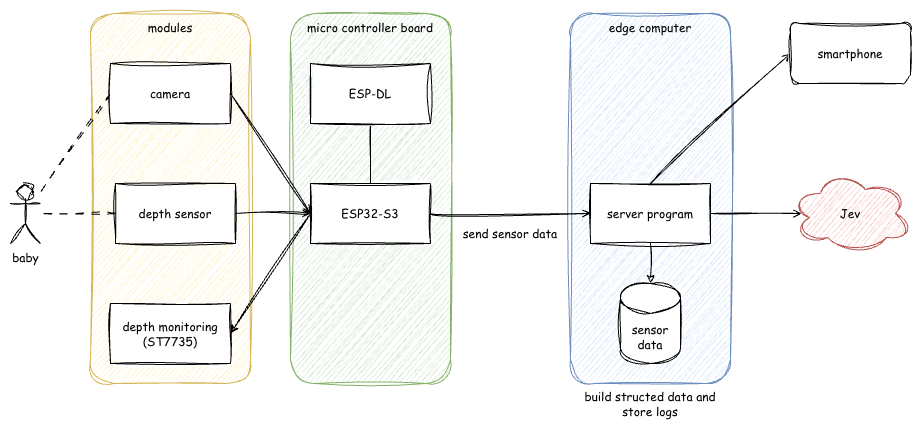
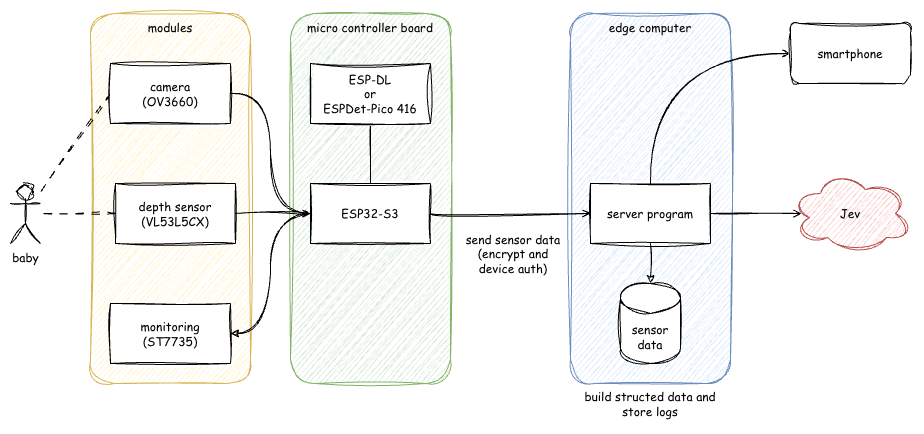
Update setup and specifications for edge application and depth sensor monitoring
- Revised the setup documentation to clarify the development procedures and removed outdated product connection steps.
- Updated specifications to reflect changes in the edge application's registration and management processes.
- Enhanced the depth sensor monitoring by changing the representation of invalid cells to a black background with a red '×'.
- Adjusted the depth map rendering code to ensure the correct color representation for invalid cells.
- Modified tests to validate the new rendering behavior for invalid cells in the depth map.
- Added new documentation for face detection model selection and depth sensor monitoring improvements.

close #24

diff --git a/tests/test_depth_map.c b/tests/test_depth_map.c
@@ -42,8 +42,8 @@ static void cross(int cell)
         for (int x = 0; x < 16; ++x)
         {
             const uint8_t *p = pixel((cell % 8) * 16 + x, (cell / 8) * 16 + y);
-            assert(p[0] == (x == y || x + y == 15 ? 0xfc : 0));
-            assert(p[1] == 0 && p[2] == 0);
+            assert(p[0] == 0 && p[1] == 0);
+            assert(p[2] == (x == y || x + y == 15 ? 0xfc : 0));
         }
 }
 

diff --git a/main/depth_map.c b/main/depth_map.c
@@ -104,7 +104,7 @@ void depth_map_render_strip(const depth_map_t *map, int64_t now_us, bool mirror_
                     pixel[0] = pixel[1] = pixel[2] = level << 2;
                 }
                 else if (x % 16 == y % 16 || x % 16 + y % 16 == 15)
-                    pixel[0] = 0xfc;
+                    pixel[2] = 0xfc; // Red follows the panel's BGR order.
             }
         }
 }

diff --git a/docs/plans/completed/2026-11-06-issue-24-depth-monitor.md b/docs/plans/completed/2026-11-06-issue-24-depth-monitor.md
@@ -1,0 +1,66 @@
+# Issue #24 深度センサーモニターの修正
+
+## Status
+
+- Phase: verification
+- Approval: approved
+
+## Goal
+
+無効セルは黒地の赤い `×` で、有効な遠距離セルと区別できるようにする。
+README と現行文書で、現在のコードベースの動作と運用手順を確認できるようにする。
+
+## Scope
+
+- `main/depth_map.c` の無効セルの色と、描画テストの期待値を変更対象とする。
+- README と `docs/current/` の全 5 文書を対象に、現在のコードベースと記述を照合する。無効セルの色は Task 1 の変更後のコードに合わせる。
+
+## Non-goals
+
+- センサー取得、測距値、JSONL、判定入力、管理画面を変更すること。
+- パネルの初期化、色順、配線、表示の更新周期を変更すること。
+- ADR、過去の計画、検証記録を書き換えること。
+
+## Required Behavior
+
+- MUST: 有効セルは現行の 64 階調で表示する。表示範囲は 0〜4000 mm とする。
+- MUST: 0 mm は白、4000 mm は黒とする。
+- MUST: 無効セルは黒地に赤い対角線 2 本で `×` を描く。
+- MUST: 顔検知結果の色、凡例、左右反転、深度の状態表示を維持する。
+- MUST: 現行の動作は、実装、設定例、テストで確認できる内容に合わせて記述する。
+- MUST: 商品向けの要件や設計に未実装の項目がある場合、現在利用できる機能と区別する。
+
+## Tasks
+
+### Task 1: 無効セルの `×` を赤くする
+
+- Objective: 無効セルを黒地の赤い `×` で表示する。
+- Scope: `main/depth_map.c` と `tests/test_depth_map.c` を変更する。無効セルの赤には、既存の `FACE x` と同じ第 3 成分を使う。
+- Acceptance Criteria: 無効セルは対角線だけを赤とし、残りを黒とする。既存の階調、有効性判定、取得状態、左右反転、顔表示を維持する。
+- Verification: `sh tests/run.sh` で無効セルの画素と既存動作を確認する。`idf.py build` でファームウェアをビルドする。実機 TFT で無効セルの背景が黒く、`×` が `FACE x` と同じ赤に見えることを確認する。
+
+### Task 2: 現行文書をコードベースに合わせる
+
+- Objective: 現行の動作と運用手順を、現在のコードベースから説明する。
+- Scope: README と `docs/current/` の `REQUIREMENTS.md`、`SPECIFICATIONS.md`、`DESIGN.md`、`SETUP.md`、`CONNECTION.md` を点検する。表示に加え、観測、管理 API と設定、機器登録、エッジ処理、セットアップを照合する。
+- Acceptance Criteria: 現行の API、既定値、コマンド、運用手順がコードベースと一致する。変更履歴や過去の確認状況を現行の動作説明から整理する。移動済みの計画への参照を解消する。未検証の動作を確認済みと記述しない。
+- Verification: 記述を `main/`、`edge/`、`tools/` の実装、設定例、テストと照合する。変更した相対リンクの参照先と、コマンドのオプションを確認する。
+
+## Open Questions
+
+- なし。
+
+## 検証結果
+
+- Task 1 の `sh tests/run.sh` と ESP-IDF 6.0.3 の `idf.py build` が成功した。
+- Task 2 では README と現行文書 5 件を実装、設定例、テストと照合した。リポジトリ内の参照先と、セットアップ用 CLI のオプションを確認した。
+- 管理画面、エッジ、USB 初期設定、セットアップの自動テストが成功した。仮想 eFuse のテストは ESP-IDF の Python で確認した。
+- ユーザが VS Code で ESP-IDF の環境を再選択した。ESP-IDF 6.0.3 でのビルドと実機への書き込み成功をログで確認した。
+- ユーザから動作確認の報告があった。実機 TFT の発色など、個別の確認項目は報告に含まれていない。
+
+## References
+
+- [Issue #24 深度センサーモニターの修正](https://github.com/tkumata/prone-guard/issues/24)
+- [現行の TFT 表示仕様](../../current/SPECIFICATIONS.md#7-tft-深度マップ)
+- [TFT 描画コード](../../../main/depth_map.c)
+- [TFT 描画テスト](../../../tests/test_depth_map.c)

diff --git a/docs/current/REQUIREMENTS.md b/docs/current/REQUIREMENTS.md
@@ -2,7 +2,8 @@
 
 マイコンは観測を取得・送信し、エッジは保存と Jev による判定を担当する。
 お客様だけでの接続完結とセキュリティの確保を必須要件とする。
-接続の詳細は [接続設計](CONNECTION.md)、実装・検証状態は [実装計画](../plans/active/2026-10-28-issue-15-edge-sensors.md) に従う。
+現行の動作と運用手順は [仕様](SPECIFICATIONS.md) と [環境構築と運用](SETUP.md) に記載する。
+商品向けの要件には、[接続設計](CONNECTION.md) で定める未実装の機能も含む。
 
 ## 1. 目的
 
@@ -33,6 +34,7 @@
 - MUST: 深度と target_status を各 8×8 で取得する。
 - MUST: TFT に深度の 8×8 ゾーンを、1 ゾーン 16×16px、全体 128×128px で表示する。
 - MUST: 0〜4000mm を近いほど明るい 64 階調へ変換し、RGB666 で表示する。
+- MUST: 無効セルを黒地の赤い `×` で表示する。
 - MUST: 下部 32px の 1 行目に 6×16px の文字で深度状態と顔検知結果、2 行目に 8×16px の文字で凡例を表示する。
 - MUST: 顔検知時は緑の `■` と顔矩形の面積を整数の px² で表示し、未検知・カメラ未取得・取得失敗時は赤の `x` を表示する。
 - MUST: 管理画面から TFT の深度マップだけを左右反転できる。
@@ -50,8 +52,6 @@
 - MUST: センサーデータを永続保存しない。
 - MUST: Wi-Fi STA と再接続を維持する。
 - MUST: 起動時と 24 時間ごとに NTP 同期する。
-- MUST: エッジのローカル設定画面で STA とベッド ID を設定できる。
-- MUST: URL とキーはアプリが設定し、お客様に入力やファイル編集を要求しない。
 - MUST: 管理画面を HTTPS と管理者認証で保護する。
 - MUST: 秘密を暗号化 NVS に保存し、取得 API やログへ返さない。
 - MUST: Jev 通信と映像配信を行わない。
@@ -78,6 +78,8 @@
 
 - MUST: 配布パッケージの導入から初回接続、設定変更、機器交換、解除・復旧まで、お客様だけで完結できる。
 - MUST: エッジアプリにセットアップツールを組み込み、認証、入力、設定、接続確認、再開・取消しを画面から実行できる。
+- MUST: エッジのローカル設定画面で STA とベッド ID を設定できる。
+- MUST: URL とキーはアプリが設定し、お客様に入力やファイル編集を要求しない。
 - MUST: ツールの再実行や中断で、既存の鍵・観測・無関係な機器設定を破壊しない。
 - MUST: SDK、ターミナル、eFuse 書込み、証明書生成、OS の CA 登録、固定 IP、秘密ファイル編集をお客様へ要求しない。
 - MUST: 初期登録は USB、機器の物理操作、機器固有コードで認証し、Security 2 で暗号化する。
@@ -111,7 +113,7 @@
 | カメラ・深度の観測時刻差 | 1 秒以下 |
 | Jev confidence | 0.9 未満は判定不能 |
 
-上記の品質値と confidence は、実測前の初期設計値である。
+上記の品質値と confidence は、エッジが使用する判定条件である。
 confidence 0.9 は識別精度 90% を保証しない。
 
 ## 7. 受け入れ条件
@@ -134,7 +136,7 @@ confidence 0.9 は識別精度 90% を保証しない。
 - 実施した自動検証と未実施の実機検証を分けて記録する。
 - 精度評価は実装側が担当し、未測定の値を合格扱いしない。
 - [接続設計の受入条件](CONNECTION.md#7-保護する範囲と受入条件)を満たし、お客様の単独操作で接続と復旧を完了できる。
-- 従来の試作の HTTPS・USB テストだけで、商品向けの接続とセキュリティを確認済みにしない。
+- 商品向けの接続とセキュリティは、出荷時の保護を有効にした実機でも検証する。
 
 ## 8. 制約
 
